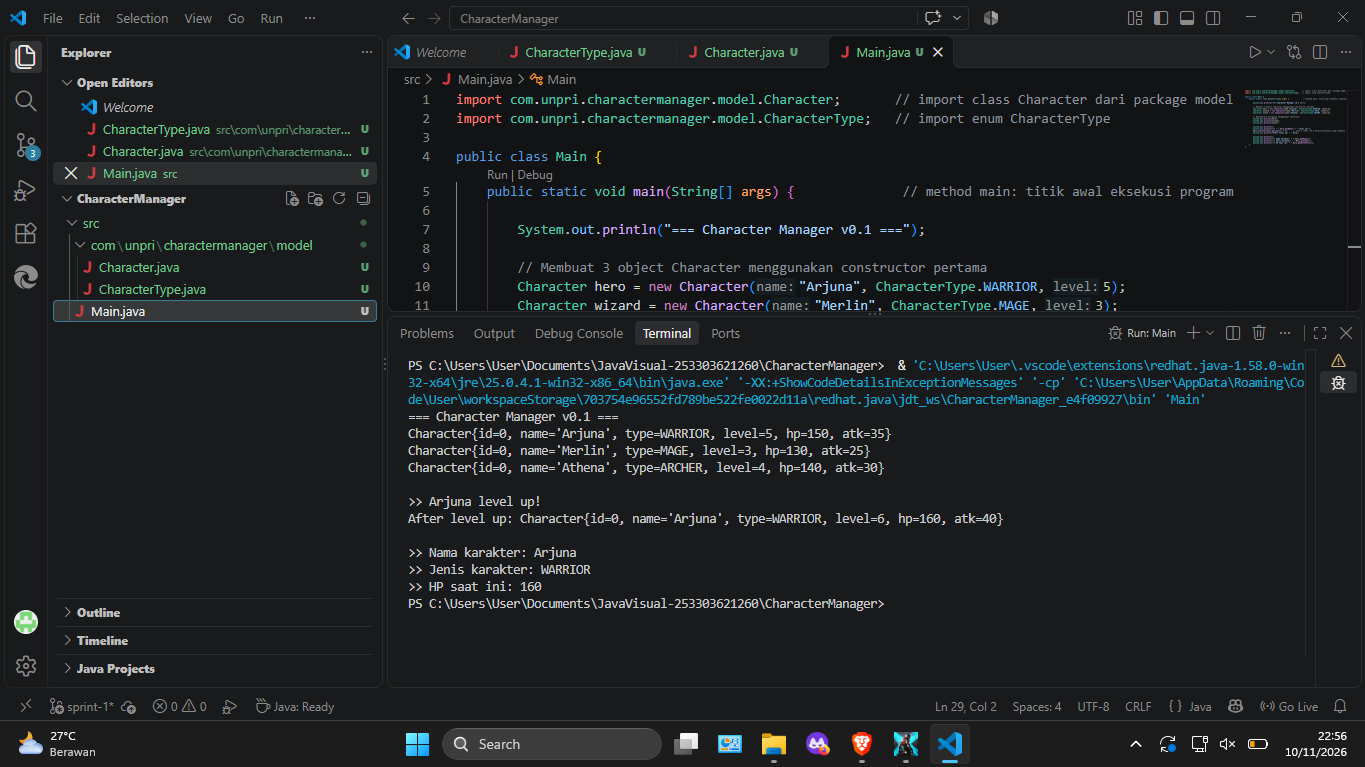
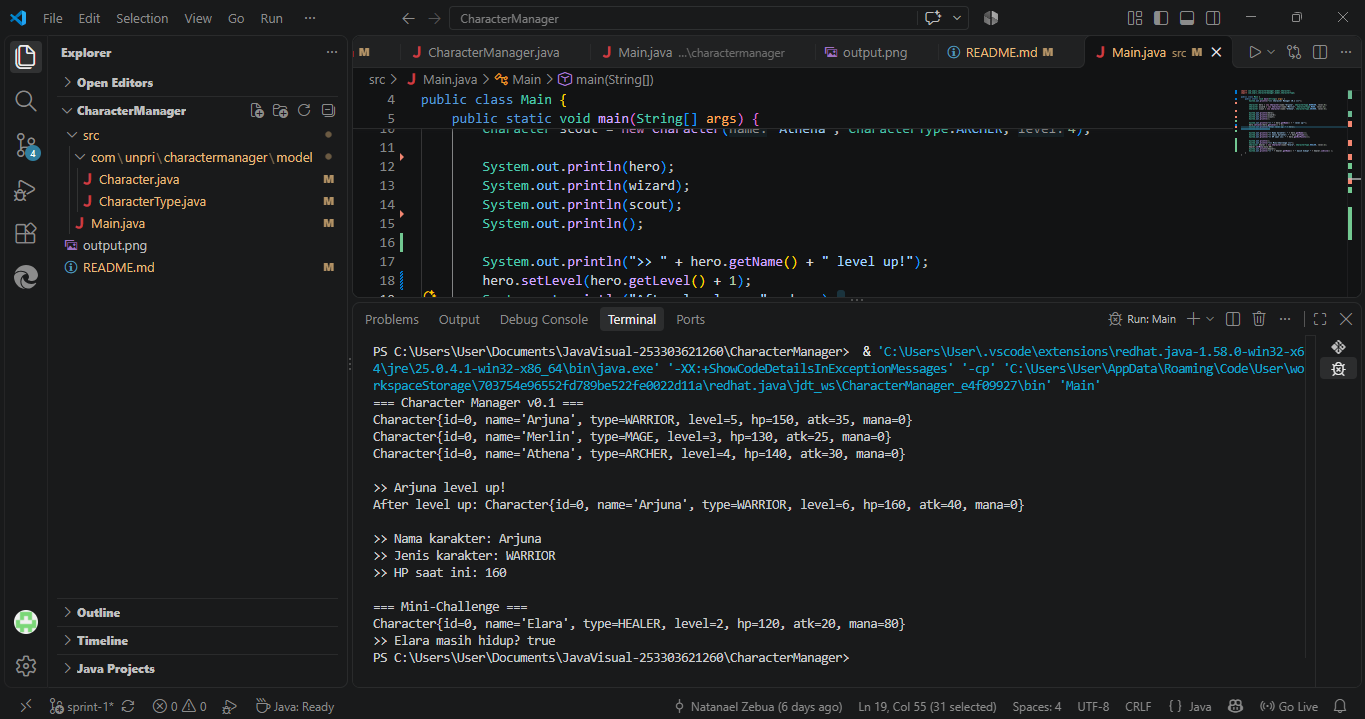
TP3

diff --git a/src/com/unpri/charactermanager/model/Character.java b/src/com/unpri/charactermanager/model/Character.java
@@ -1,32 +1,24 @@
 package com.unpri.charactermanager.model;
 
-/**
- * Merepresentasikan satu karakter dalam aplikasi Character Manager.
- * Menerapkan prinsip Encapsulation: semua atribut private,
- * akses hanya melalui getter/setter.
- */
 public class Character {
-
-    // ===== ATRIBUT (private — tidak bisa diakses langsung dari luar class) =====
     private int id;
     private String name;
     private CharacterType type;
     private int level;
     private int hitPoints;
     private int attackPower;
+    private int mana;
 
-    // ===== CONSTRUCTOR 1: untuk membuat karakter BARU =====
-    // Dipakai saat user membuat karakter dari form (belum punya id dari database)
+        // Constructor 1: karakter BARU (statistik dihitung otomatis)
     public Character(String name, CharacterType type, int level) {
-        this.name = name;              // "this" merujuk ke atribut milik object ini
+        this.name = name;
         this.type = type;
         this.level = level;
-        this.hitPoints = calculateBaseHP();      // HP dihitung otomatis dari level
-        this.attackPower = calculateBaseAttack(); // Attack dihitung otomatis dari level
+        this.hitPoints = calculateBaseHP();
+        this.attackPower = calculateBaseAttack();
     }
 
-    // ===== CONSTRUCTOR 2: untuk MEMUAT karakter dari database =====
-    // Dipakai saat data sudah ada (id dan statistik sudah final dari DB)
+    // Constructor 2: MEMUAT karakter dari database
     public Character(int id, String name, CharacterType type, int level, int hitPoints, int attackPower) {
         this.id = id;
         this.name = name;
@@ -36,37 +28,37 @@ public class Character {
         this.attackPower = attackPower;
     }
 
-    // ===== HELPER PRIVATE: hanya dipakai internal class ini =====
-    private int calculateBaseHP() {
-        return 100 + (level * 10);   // contoh: level 5 → HP = 150
-    }
-
-    private int calculateBaseAttack() {
-        return 10 + (level * 5);     // contoh: level 5 → Attack = 35
-    }
-      // ===== GETTER: cara AMAN membaca nilai atribut private dari luar =====
-    public int getId() { return id; }
+    private int calculateBaseHP() { return 100 + (level * 10); }
+    private int calculateBaseAttack() { return 10 + (level * 5); }
+        public int getId() { return id; }
     public String getName() { return name; }
     public CharacterType getType() { return type; }
     public int getLevel() { return level; }
     public int getHitPoints() { return hitPoints; }
     public int getAttackPower() { return attackPower; }
 
-    // ===== SETTER: cara AMAN mengubah atribut, dengan VALIDASI =====
-    public void setId(int id) {
-        this.id = id;
-    }
+    public void setId(int id) { this.id = id; }
 
     public void setLevel(int level) {
-        if (level < 1) {                       // validasi: level tidak boleh kurang dari 1
+        if (level < 1) {
             throw new IllegalArgumentException("Level minimal adalah 1");
         }
         this.level = level;
-        this.hitPoints = calculateBaseHP();      // statistik dihitung ULANG setiap level berubah
+        this.hitPoints = calculateBaseHP();
         this.attackPower = calculateBaseAttack();
     }
+        public int getMana() { return mana; }
 
-    // ===== toString(): representasi teks object, berguna untuk debugging =====
+    public void setMana(int mana) {
+        if (mana < 0) {
+            throw new IllegalArgumentException("Mana tidak boleh negatif");
+        }
+        this.mana = mana;
+    } 
+        public boolean isAlive() {
+        return hitPoints > 0;
+    }
+
     @Override
     public String toString() {
         return "Character{id=" + id +
@@ -74,7 +66,7 @@ public class Character {
                ", type=" + type +
                ", level=" + level +
                ", hp=" + hitPoints +
-               ", atk=" + attackPower + '}';
+               ", atk=" + attackPower + 
+               ", mana=" + mana +'}';
     }
-
-}   // kurung kurawal penutup CLASS Character — pastikan jumlah buka/tutup seimbang!
+}

diff --git a/src/Main.java b/src/Main.java
@@ -1,29 +1,33 @@
-import com.unpri.charactermanager.model.Character;       // import class Character dari package model
-import com.unpri.charactermanager.model.CharacterType;   // import enum CharacterType
+import com.unpri.charactermanager.model.Character;
+import com.unpri.charactermanager.model.CharacterType;
 
 public class Main {
-    public static void main(String[] args) {              // method main: titik awal eksekusi program
-
+    public static void main(String[] args) {
         System.out.println("=== Character Manager v0.1 ===");
 
-        // Membuat 3 object Character menggunakan constructor pertama
         Character hero = new Character("Arjuna", CharacterType.WARRIOR, 5);
         Character wizard = new Character("Merlin", CharacterType.MAGE, 3);
         Character scout = new Character("Athena", CharacterType.ARCHER, 4);
 
-        // Menampilkan ketiganya menggunakan toString()
         System.out.println(hero);
         System.out.println(wizard);
         System.out.println(scout);
-
         System.out.println();
+
         System.out.println(">> " + hero.getName() + " level up!");
-        hero.setLevel(hero.getLevel() + 1);     // naik 1 level, HP & Attack dihitung ulang otomatis
+        hero.setLevel(hero.getLevel() + 1);
         System.out.println("After level up: " + hero);
-
         System.out.println();
+
         System.out.println(">> Nama karakter: " + hero.getName());
         System.out.println(">> Jenis karakter: " + hero.getType());
         System.out.println(">> HP saat ini: " + hero.getHitPoints());
+        
+        System.out.println();
+        System.out.println("=== Mini-Challenge ===");
+        Character healer = new Character("Elara", CharacterType.HEALER, 2);
+        healer.setMana(80);
+        System.out.println(healer);
+        System.out.println(">> " + healer.getName() + " masih hidup? " + healer.isAlive() );
     }
 }

diff --git a/src/com/unpri/charactermanager/model/CharacterType.java b/src/com/unpri/charactermanager/model/CharacterType.java
@@ -3,5 +3,6 @@ package com.unpri.charactermanager.model;
 public enum CharacterType {
     WARRIOR,
     MAGE,
-    ARCHER
+    ARCHER,
+    HEALER
 }

diff --git a/README.md b/README.md
@@ -2,7 +2,7 @@
 Proyek ini adalah fondasi model class untuk aplikasi Character Manager berbasis Java 17. Berisi enum CharacterType dan class Character dengan dua constructor, validasi pada setter, serta fitur tambahan mana dan isAlive(). Class ini akan menjadi dasar GUI pada sprint berikutnya.
 
 ## Output Terminal
-![alt text](output.png)
+![alt text](Output.png)
 
 ## Struktur Folder
 ```
@@ -15,7 +15,7 @@ CharacterManager/
 │   │               ├── Character.java
 │   │               └── CharacterType.java
 │   └── Main.java
-├── output.png
+├── Output.png
 └── README.md
 ```
 
